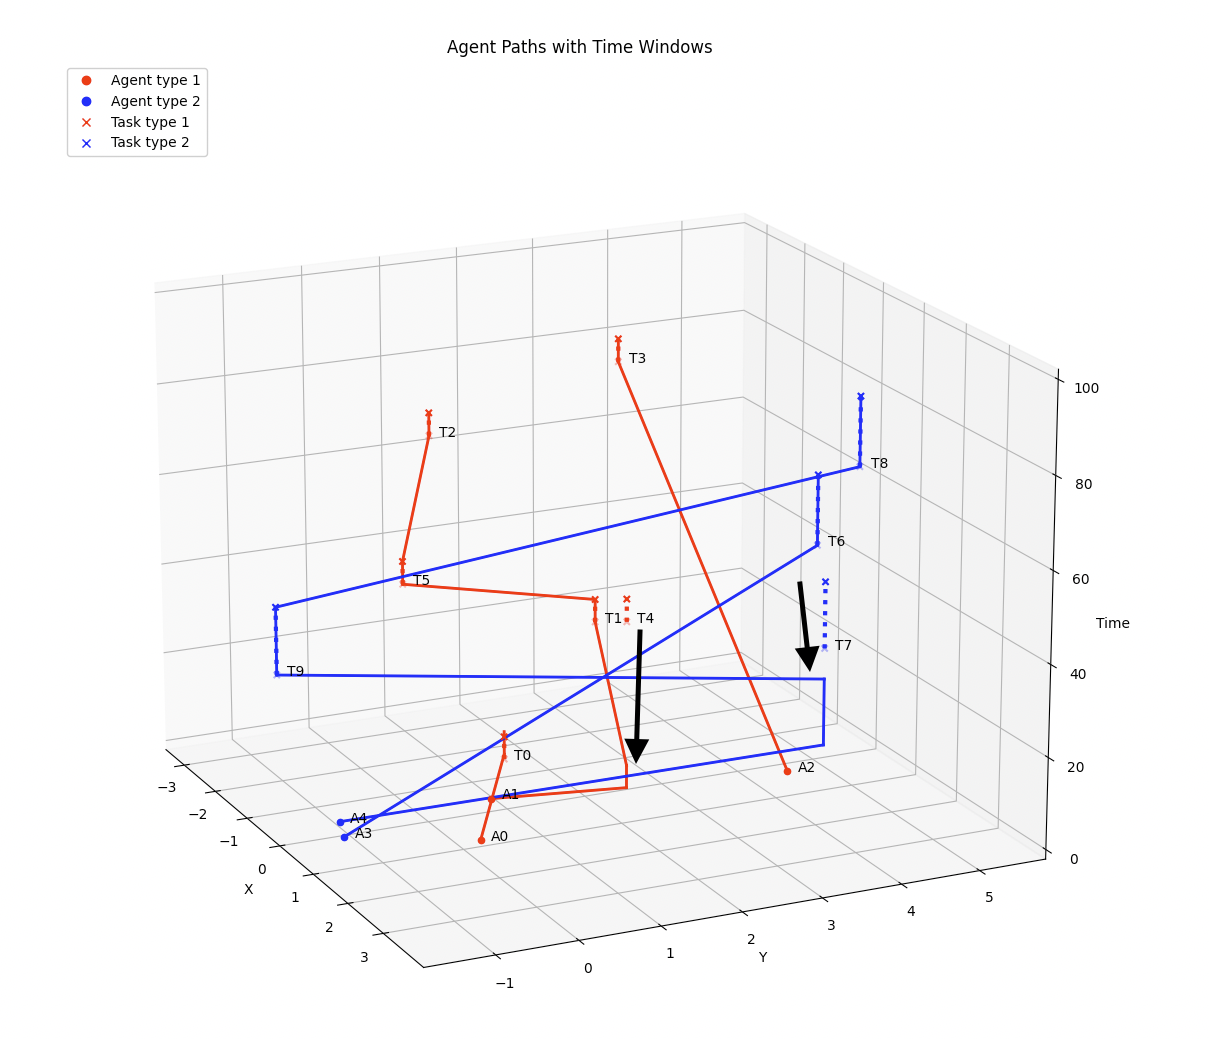
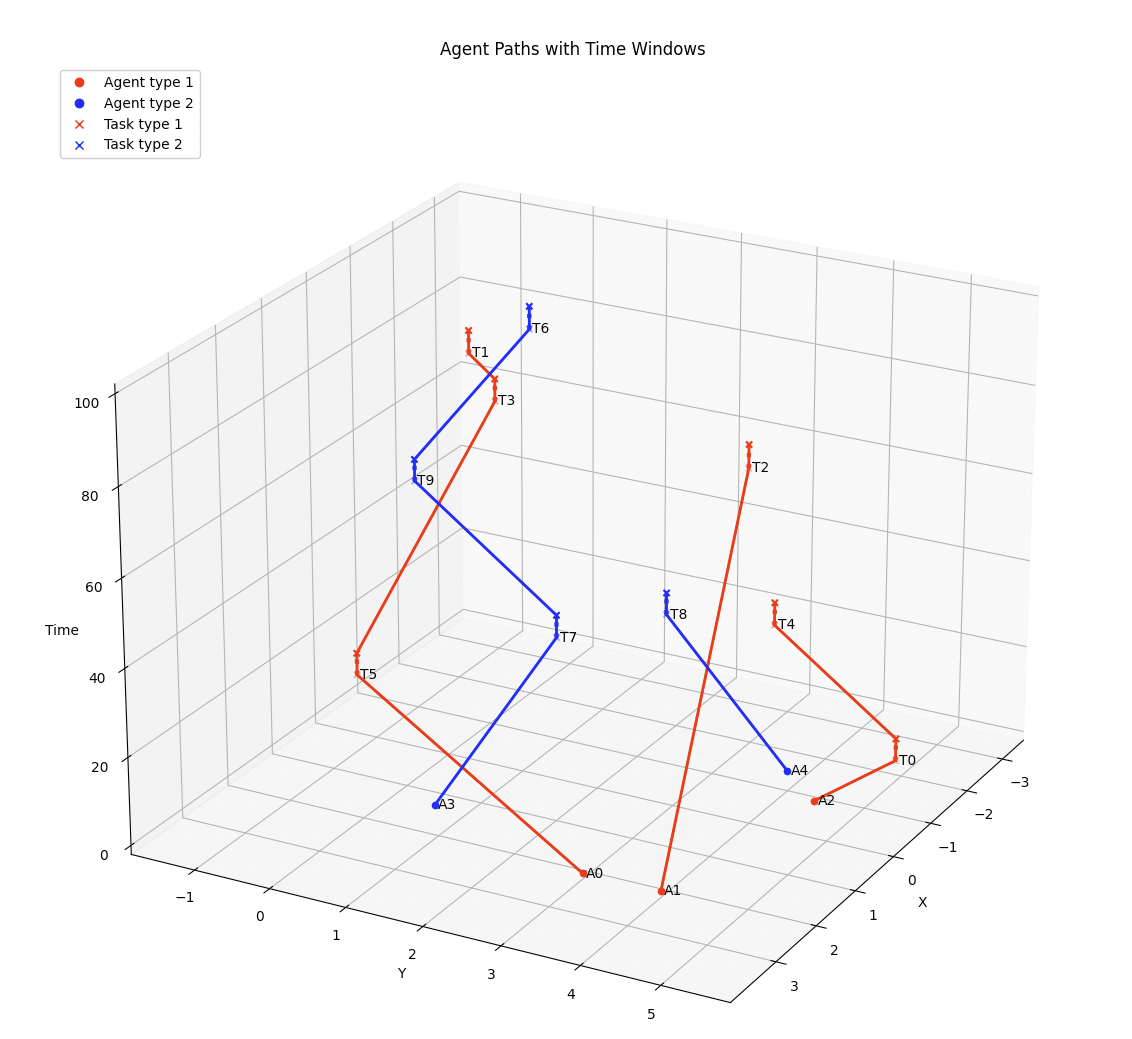
update readme

diff --git a/lib/CBBA.py b/lib/CBBA.py
@@ -736,7 +736,7 @@ class CBBA(object):
                             [self.times_list[n][m], self.times_list[n][m]+Task_next.duration], linewidth=2, color=color_str)
                         Task_prev = Task(**Task_next.__dict__)
         
-        plt.title('Agent Paths with Time Windows')
+        plt.title('Agent Paths without Time Windows')
         ax_3d.set_xlabel("X")
         ax_3d.set_ylabel("Y")
         ax_3d.set_zlabel("Time")

diff --git a/test/test_cbba_example_01.py b/test/test_cbba_example_01.py
@@ -22,7 +22,7 @@ if __name__ == "__main__":
     json_file = open(config_file_name)
     config_data = json.load(json_file)
 
-    # create a world
+    # create a world, each list is [min, max] coordinates for x,y,z axis
     WorldInfoTest = WorldInfo([-2.0,2.5], [-1.5,5.5], [0.0,20.0])
 
     # create a list of Agent(s) and Task(s)

diff --git a/test/test_cbba_example_02.py b/test/test_cbba_example_02.py
@@ -22,7 +22,7 @@ if __name__ == "__main__":
     json_file = open(config_file_name)
     config_data = json.load(json_file)
 
-    # create a world
+    # create a world, each list is [min, max] coordinates for x,y,z axis
     WorldInfoTest = WorldInfo([-2.0,2.5], [-1.5,5.5], [0.0,20.0])
 
     # create a list of Agent(s) and Task(s)

diff --git a/README.md b/README.md
@@ -1,9 +1,14 @@
 # CBBA-Python
-This is a Python implementation of CBBA.
+This is a Python implementation of CBBA (Consensus-Based Bundle Algorithm).
+
+You can see more details about CBBA from these papers.
+
+* [Choi, H.-L., Brunet, L., and How, J. P., “Consensus-Based Decentralized Auctions for Robust Task Allocation,” IEEE Transactions on Robotics, vol. 25, Aug. 2009, pp. 912–926.](https://ieeexplore.ieee.org/abstract/document/5072249?casa_token=zYvs9usD3FYAAAAA:jz0SmSso6T5l107pHGJgIQhVNP3S4NEnnIPi6sRC--8aealzVFinApRitUzhISlprmsPjcr3)
+
+* [Brunet, L., Choi, H.-L., and How, J. P., “Consensus-Based Auction Approaches for Decentralized Task Assignment,” AIAA Guidance, Navigation, and Control Conference (GNC), Honolulu, HI: 2008.](https://arc.aiaa.org/doi/abs/10.2514/6.2008-6839)
 
 Require:
 Python >= 3.7
-
 
 This repo has been tested with:
 * Python 3.9.1, macOS 11.2.1
@@ -12,8 +17,8 @@ This repo has been tested with:
 Dependencies
 ============
 For Python:
-* [numpy](https://numpy.org/).
-* [matplotlib](https://matplotlib.org/).
+* [numpy](https://numpy.org/)
+* [matplotlib](https://matplotlib.org/)
 
 ```
 $ pip3 install numpy matplotlib
